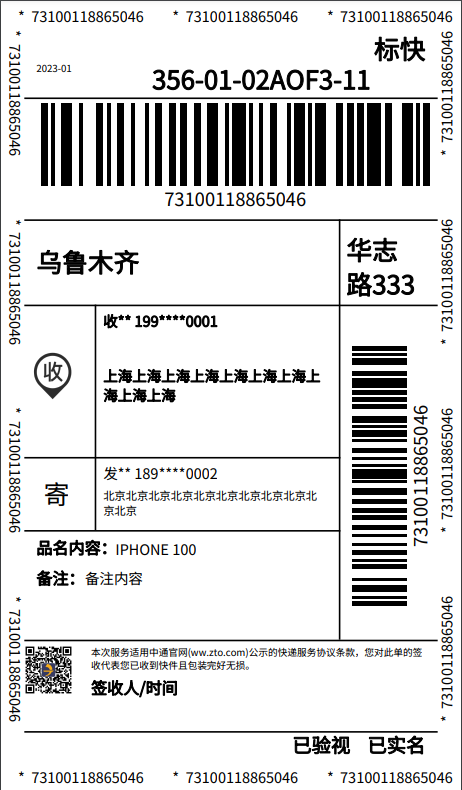
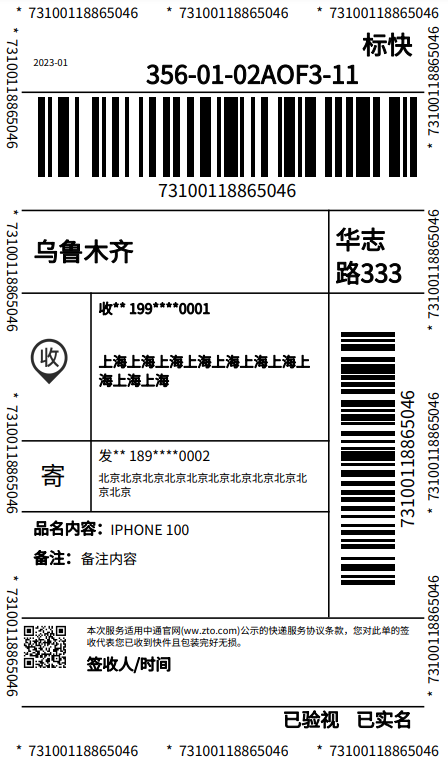
zto

diff --git a/README.md b/README.md
@@ -19,11 +19,11 @@ cp vendor/express_template/img  到对应的web目录
 ~~~
 use ExpressTemplate\Zto;  
 $zto = new Zto;
-$zto->image_url = 'http://sf1/wp-content/plugins/express/lib/template/';
+$zto->image_url = '';
 //收 图片的URL地址
-$zto->revice_img_url = "";
+$zto->revice_img_url = "http://sf1/wp-content/plugins/express/lib/template/revice.png";
 //底部左侧二维码的URL地址
-$zto->qr_url         = "http://sf1/wp-content/plugins/express/lib/template/db_qr.jpg";
+$zto->qr_url         = "http://sf1/wp-content/plugins/express/lib/template/zto_qr.png";
 //保存的路径 
 $save_path = __DIR__.'/d.pdf'; 
 $s = $zto->output([
